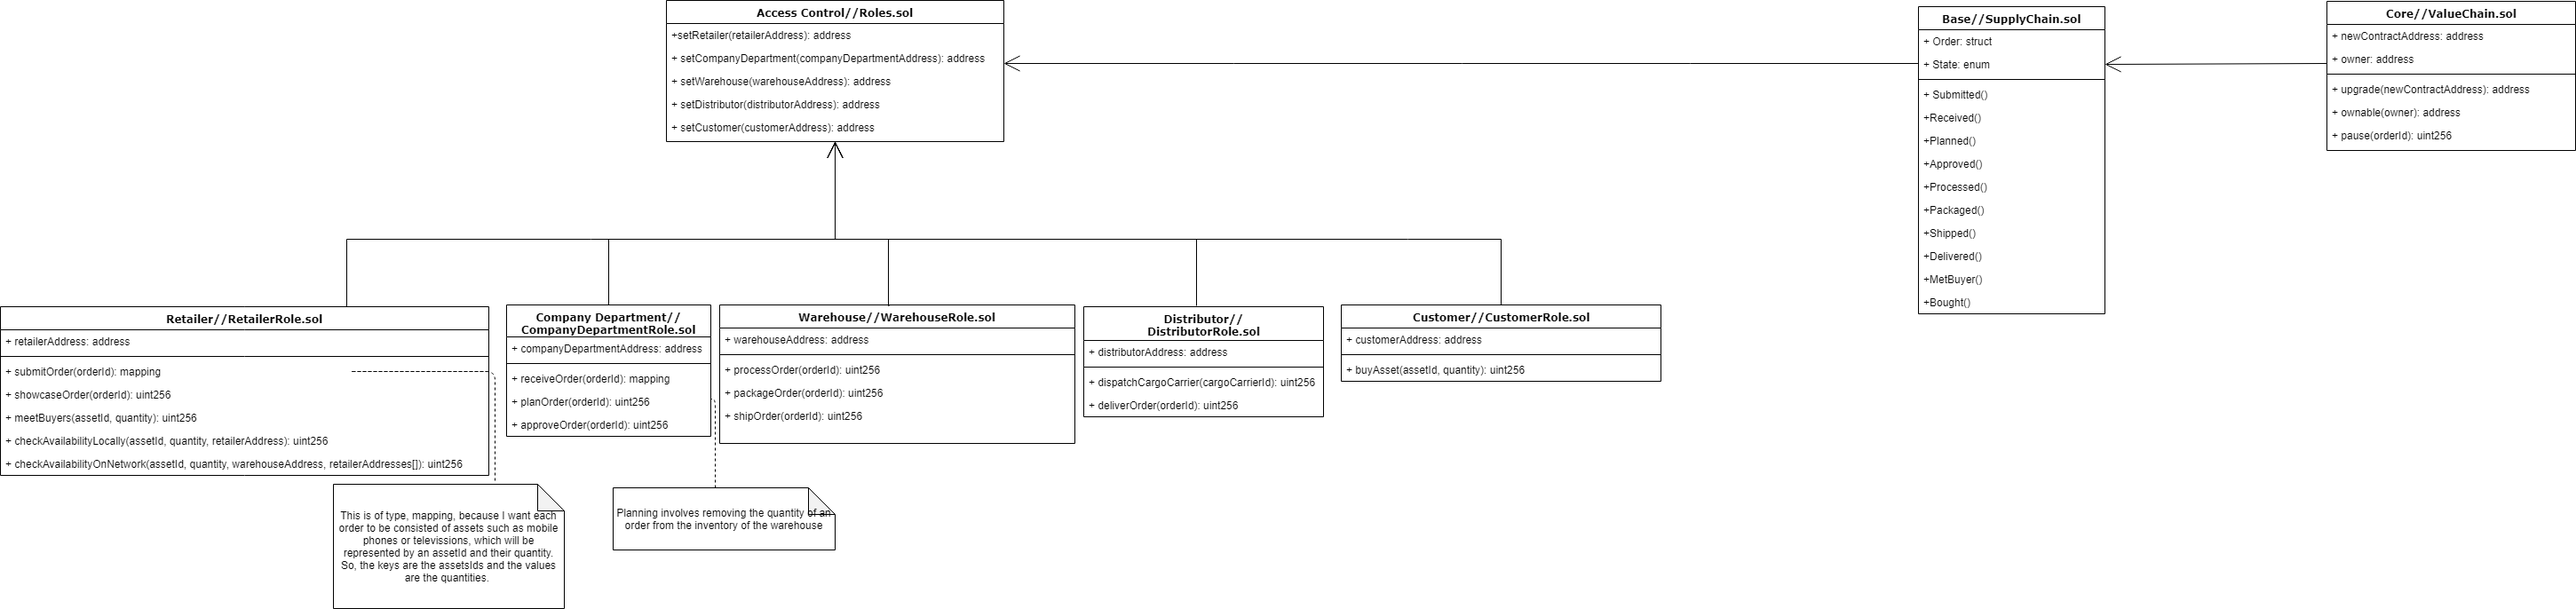
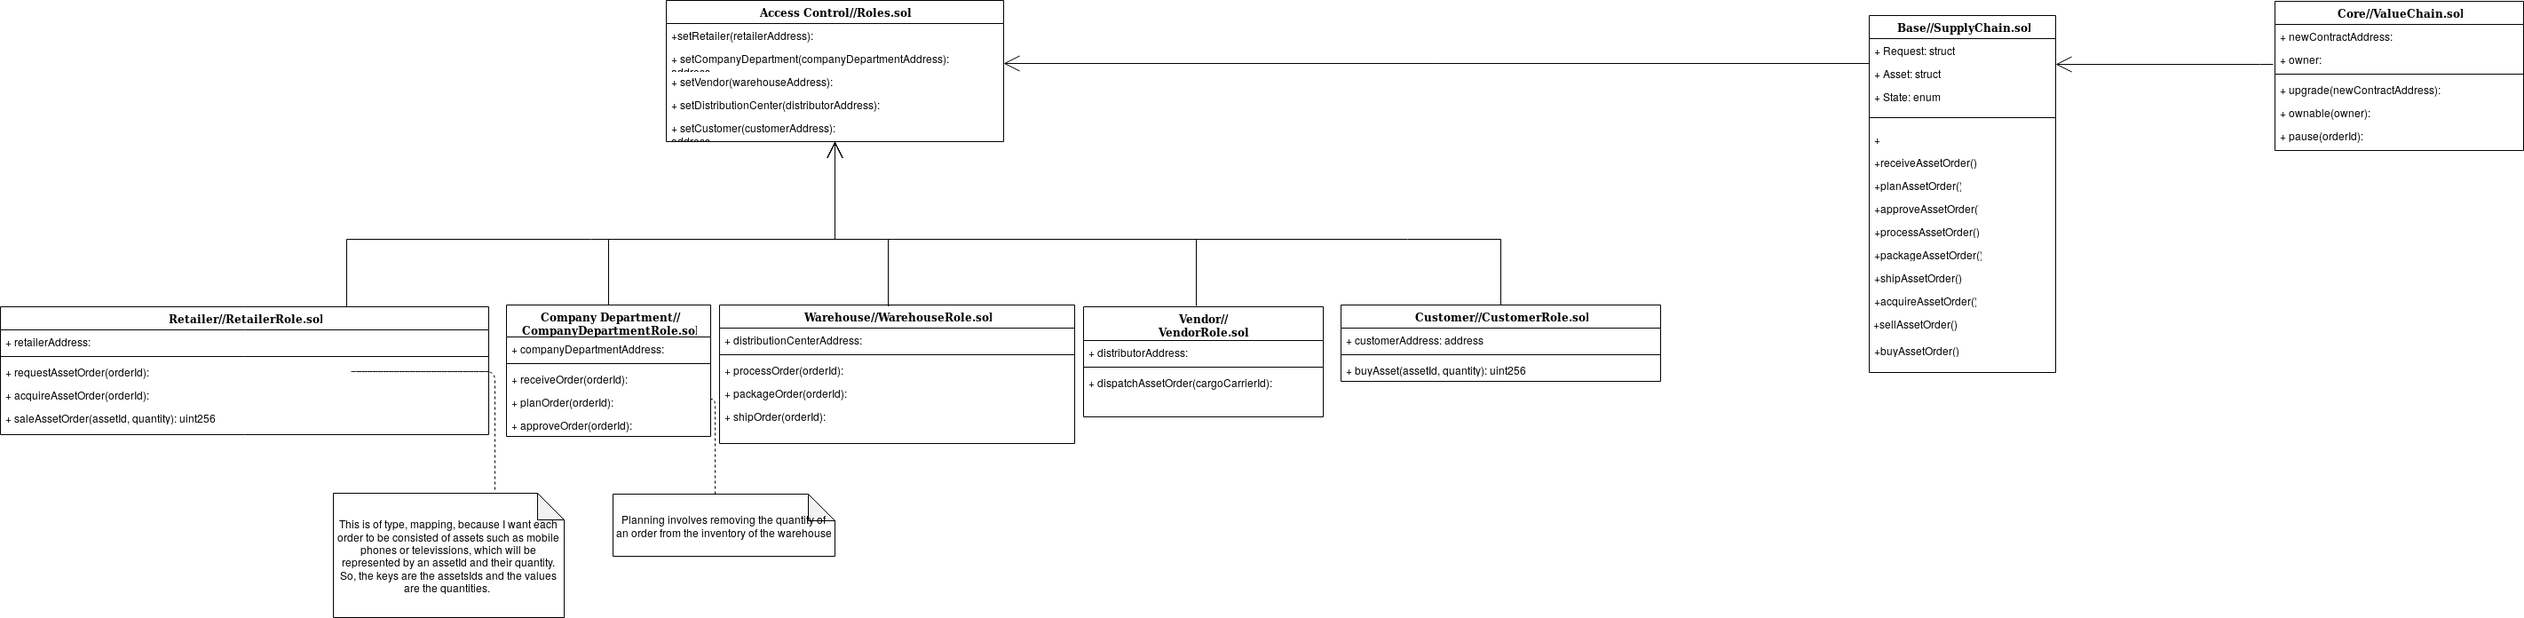
feat: updated README, diagrams and truffle.js

diff --git a/truffle.js b/truffle.js
@@ -1,9 +1,22 @@
+
+const HDWalletProvider = require('truffle-hdwallet-provider');
+const infuraKey = INFURA_KEY;
+//
+// const fs = require('fs');
+const mnemonic = INFURA_MNEMONIC;
+
 module.exports = {
   networks: {
     development: {
       host: "127.0.0.1",
       port: 8545,
       network_id: "*" // Match any network id
-    }
+    },
+    rinkeby: {
+      provider: () => new HDWalletProvider(mnemonic, INFURA_ENDPOINT),
+        network_id: 4,       // rinkeby's id
+        gas: 4500000,        // rinkeby has a lower block limit than mainnet
+        gasPrice: 10000000000
+    },
   }
 };

diff --git a/README.md b/README.md
@@ -1,8 +1,20 @@
 # Telco-Chain Ethereum Dapp: A smart contract enabling tracking of an ordering process.
 
-  This repository containts an Ethereum DApp that demonstrates a Supply Chain flow between a Retailer and a Customer of telco assets.
+  This repository contains an Ethereum DApp that demonstrates a Supply Chain flow between a Retailer and a Customer of telco assets.
 
   The user story is similar to any commonly used supply chain process. A Retailer can add submit orders of assets; then, the company reviews the orders and approve them; following this, the distribution center receives  the order and process it; once the order is ready, it is shipped to retailer for selling the asset composing the order. The whole cycle of ordering is stored in the blockchain. A Customer can buy telco assets, such as mobile phones and tablets from the Retailers. Additionally a Retailer can mark an item as ForSale, and similarly a Customer can mark an item as Sold when the amount, which is paid for it, is sufficient and ownership is transferred to the Customer.
+
+  The **truffle.js** file of this project is configured to deploy the smart contract in the Ethereum testnet, Rinkeby. The Infura and Metamask are utilized in order to deploy and use the smart contract. Create a .env file and define the INFURA_KEY, INFURA_ENDPOINT and INFURA_MNEMONIC. In the **truffle.js** file use the INFURA_KEY, INFURA_ENDPOINT and INFURA_MNEMONIC. The contract's address is *0xb98DebF288F7D48DE51e2FB848e0a0c272715566*, with transaction hash, *0xa09496f978ec4a9e170d52eb4208f52a5aec60f1090ba87dcd82840b6f1c1cf3*.
+
+  ![truffle test](images/contract-address.png)
+
+  The scenario implemented by this project can easily perceived by the following diagrams:
+
+  ![truffle test](diagrams/sequence.png)
+
+  ![truffle test](diagrams/state.png)
+
+  ![truffle test](diagrams/class.png)
 
  The DApp User Interface:
 
@@ -99,14 +111,16 @@ npm run dev
 ## Built With
 
 * [Ethereum](https://www.ethereum.org/) - Ethereum is a decentralized platform that runs smart contracts
-<!-- * [IPFS](https://ipfs.io/) - IPFS is the Distributed Web | A peer-to-peer hypermedia protocol
-to make the web faster, safer, and more open. -->
+* [IPFS](https://ipfs.io/) - IPFS is the Distributed Web | A peer-to-peer hypermedia protocol
+to make the web faster, safer, and more open.
 * [Truffle Framework](http://truffleframework.com/) - Truffle is the most popular development framework for Ethereum with a mission to make your life a whole lot easier.
 
+* Solidity v0.5.0 (solc-js)
+* Ganache-cli v6.2.5 (ganache-core: 2.3.3)
+* Truffle v5.0.4 (core: 5.0.4)
+* Node v11.6.0
+* Web3.js v1.0.0-beta.55
 
 ## Acknowledgments
-
 * Solidity
-* Ganache-cli
 * Truffle
-<!-- * IPFS -->
